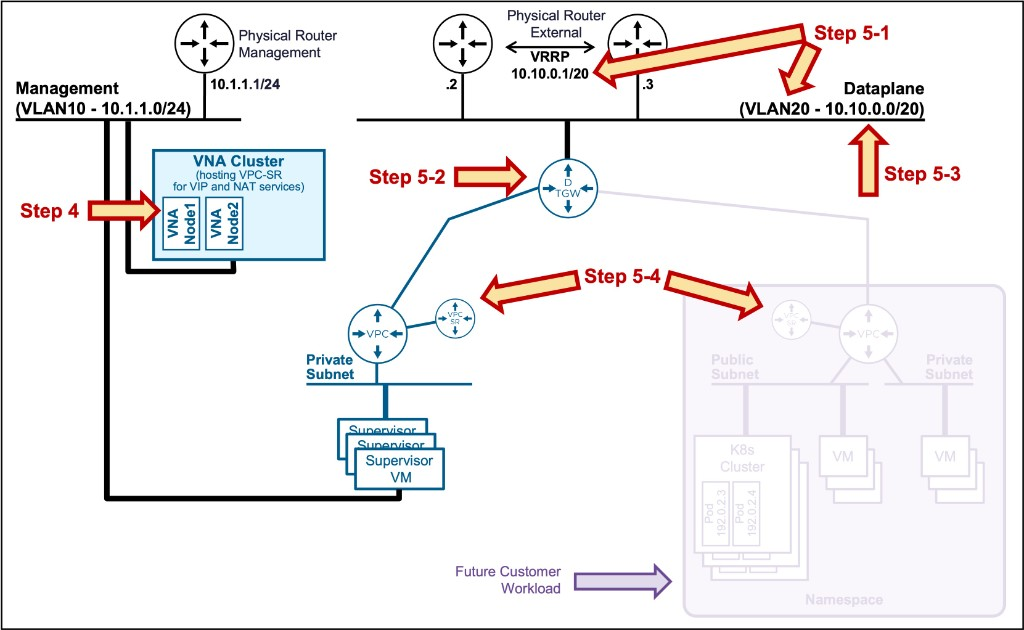
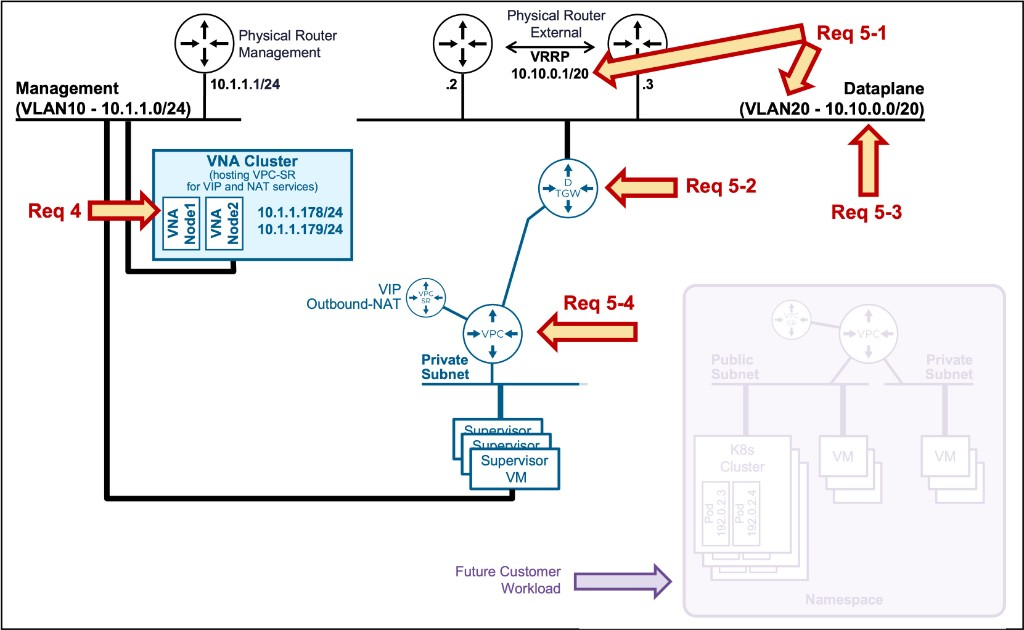
Step badges S→R, Check Ext. Conn., per-column diagrams, In Use chip
UI (index_clarity.html):
- Step badge prefix changed from S to R throughout (R1, R2, R3, R5-1…)
- Cascade fix step labels updated to R5-2 / R5-3 / R5-4
- "Check VLAN" button renamed to "Check Ext. Conn."
- Architecture diagram thumbnails added to Centralized and VDS columns
  (nsx-vpc-centralized.jpg, vds.jpg); lightbox now dynamic via diagImg var
- Status chip shows blue "In Use" for the column matching the currently
  installed Supervisor; other chips use "Missing Reqs" instead of "Issues"
- activeModeKey: new state var set by checkInstalled when Supervisor is
  found; preserved across re-checks, cleared only by reset()
- activeColKey(): computed method resolving active column from activeModeKey
  or installResult network_mode
- checkInstalled: prevent concurrent calls; keep installResult visible
  until new data arrives (no flicker); loading flag not cleared while
  requirements check is still running
- status text: "Requirements missing" → "Missing requirements"

Backend (app.py):
- Error message step refs updated: S5-1 → R5-1, S5-3 → R5-3
- S5-4 expanded detail: show IP block display_name instead of path segment

Assets:
- Add app/static/nsx-vpc-centralized.jpg
- Add app/static/vds.jpg
- Update app/static/nsx-vpc-distributed.jpg (v4)

diff --git a/app/templates/index_clarity.html b/app/templates/index_clarity.html
@@ -138,6 +138,7 @@
     .status-chip.warnings     { background: #fdf5e0; color: #e07400; }
     .status-chip.issues       { background: #fae8e8; color: #c21d00; }
     .status-chip.to_validate  { background: #edf0f2; color: #6e777b; }
+    .status-chip.in_use       { background: #0072a3; color: #fff; }
     .status-chip.configuring  { background: #dce9f4; color: #0072a3; }
     .status-chip.running      { background: #dff0d0; color: #48960c; }
     .status-chip.error        { background: #fae8e8; color: #c21d00; }
@@ -624,10 +625,10 @@
 
                       <!-- Distributed -->
                       <div x-show="col.key === 'distributed'">
-                        <img src="/static/nsx-vpc-distributed.jpg?v=3"
+                        <img src="/static/nsx-vpc-distributed.jpg?v=4"
                              alt="NSX-VPC Distributed Architecture"
                              title="Click to enlarge"
-                             @click="showDiagram = true; diagDrag.x = null; diagDrag.y = null;"
+                             @click="diagImg='/static/nsx-vpc-distributed.jpg?v=4'; showDiagram = true; diagDrag.x = null; diagDrag.y = null;"
                              style="width:100%; max-height:80px; object-fit:cover; object-position:top; border-radius:4px; border:1px solid #dfe3e6; cursor:zoom-in; margin-bottom:0.45rem; display:block;">
                         <div class="pc-label">Pros</div>
                         <div class="pc-item">· Simple design - No Edge Node / Tier-0 / BGP</div>
@@ -641,6 +642,11 @@
 
                       <!-- Centralized -->
                       <div x-show="col.key === 'centralized'">
+                        <img src="/static/nsx-vpc-centralized.jpg?v=1"
+                             alt="NSX-VPC Centralized Architecture"
+                             title="Click to enlarge"
+                             @click="diagImg='/static/nsx-vpc-centralized.jpg?v=1'; showDiagram = true; diagDrag.x = null; diagDrag.y = null;"
+                             style="width:100%; max-height:80px; object-fit:cover; object-position:top; border-radius:4px; border:1px solid #dfe3e6; cursor:zoom-in; margin-bottom:0.45rem; display:block;">
                         <div class="pc-label">Pros</div>
                         <div class="pc-item">· Full VCF-Automation support</div>
                         <div class="pc-item">· Fewer physical fabric IP consumption - K8s nodes use logical private IPs</div>
@@ -651,6 +657,11 @@
 
                       <!-- VDS / FLB -->
                       <div x-show="col.key === 'vds_flb'">
+                        <img src="/static/vds.jpg?v=1"
+                             alt="VDS Architecture"
+                             title="Click to enlarge"
+                             @click="diagImg='/static/vds.jpg?v=1'; showDiagram = true; diagDrag.x = null; diagDrag.y = null;"
+                             style="width:100%; max-height:80px; object-fit:cover; object-position:top; border-radius:4px; border:1px solid #dfe3e6; cursor:zoom-in; margin-bottom:0.45rem; display:block;">
                         <div class="pc-label">Pros</div>
                         <div class="pc-item">· Simple design — no NSX required</div>
                         <div class="pc-label pc-label-gap pc-label-cons">Cons</div>
@@ -698,12 +709,13 @@
                     </div>
                     <span class="status-chip"
                           :class="{
-                            'ready':        overallFor(col.key) === 'ready',
-                            'warnings':     overallFor(col.key) === 'warnings',
-                            'issues':       overallFor(col.key) === 'issues',
-                            'to_validate':  overallFor(col.key) === 'to_validate'
+                            'in_use':       activeColKey() === col.key,
+                            'ready':        activeColKey() !== col.key && overallFor(col.key) === 'ready',
+                            'warnings':     activeColKey() !== col.key && overallFor(col.key) === 'warnings',
+                            'issues':       activeColKey() !== col.key && overallFor(col.key) === 'issues',
+                            'to_validate':  activeColKey() !== col.key && overallFor(col.key) === 'to_validate'
                           }"
-                          x-text="{ ready:'Ready', warnings:'Warnings', issues:'Issues', to_validate:'To Validate' }[overallFor(col.key)] || ''">
+                          x-text="activeColKey() === col.key ? 'In Use' : ({ ready:'Ready', warnings:'Warnings', issues:'Missing Reqs', to_validate:'To Validate' }[overallFor(col.key)] || '')">
                     </span>
                   </div>
 
@@ -711,10 +723,10 @@
                   <div class="pros-cons-section">
                     <!-- Distributed -->
                     <div x-show="col.key === 'distributed'">
-                      <img src="/static/nsx-vpc-distributed.jpg?v=3"
+                      <img src="/static/nsx-vpc-distributed.jpg?v=4"
                            alt="NSX-VPC Distributed Architecture"
                            title="Click to enlarge"
-                           @click="showDiagram = true; diagDrag.x = null; diagDrag.y = null;"
+                           @click="diagImg='/static/nsx-vpc-distributed.jpg?v=4'; showDiagram = true; diagDrag.x = null; diagDrag.y = null;"
                            style="width:100%; max-height:80px; object-fit:cover; object-position:top; border-radius:4px; border:1px solid #dfe3e6; cursor:zoom-in; margin-bottom:0.45rem; display:block;">
                       <div class="pc-label">Pros</div>
                       <div class="pc-item">· Simple design - No Edge Node / Tier-0 / BGP</div>
@@ -727,6 +739,11 @@
                     </div>
                     <!-- Centralized -->
                     <div x-show="col.key === 'centralized'">
+                      <img src="/static/nsx-vpc-centralized.jpg?v=1"
+                           alt="NSX-VPC Centralized Architecture"
+                           title="Click to enlarge"
+                           @click="diagImg='/static/nsx-vpc-centralized.jpg?v=1'; showDiagram = true; diagDrag.x = null; diagDrag.y = null;"
+                           style="width:100%; max-height:80px; object-fit:cover; object-position:top; border-radius:4px; border:1px solid #dfe3e6; cursor:zoom-in; margin-bottom:0.45rem; display:block;">
                       <div class="pc-label">Pros</div>
                       <div class="pc-item">· Full VCF-Automation support</div>
                       <div class="pc-item">· Fewer physical fabric IP consumption - K8s nodes use logical private IPs</div>
@@ -736,6 +753,11 @@
                     </div>
                     <!-- VDS / FLB -->
                     <div x-show="col.key === 'vds_flb'">
+                      <img src="/static/vds.jpg?v=1"
+                           alt="VDS Architecture"
+                           title="Click to enlarge"
+                           @click="diagImg='/static/vds.jpg?v=1'; showDiagram = true; diagDrag.x = null; diagDrag.y = null;"
+                           style="width:100%; max-height:80px; object-fit:cover; object-position:top; border-radius:4px; border:1px solid #dfe3e6; cursor:zoom-in; margin-bottom:0.45rem; display:block;">
                       <div class="pc-label">Pros</div>
                       <div class="pc-item">· Simple design — no NSX required</div>
                       <div class="pc-label pc-label-gap pc-label-cons">Cons</div>
@@ -768,7 +790,7 @@
                           <div style="flex:1; min-width:0;">
                             <!-- Title row: badge + name (full width, never compressed) -->
                             <div style="display:flex; align-items:center; gap:0.35rem; flex-wrap:wrap;">
-                              <span class="step-badge" x-text="check.step === 'Auth' ? 'Auth' : 'S' + check.step"></span>
+                              <span class="step-badge" x-text="check.step === 'Auth' ? 'Auth' : 'R' + check.step"></span>
                               <p style="font-weight:700; font-size:0.85rem; color:#2b2b2b; line-height:1.3; margin:0;"
                                  x-text="check.name"></p>
                             </div>
@@ -809,7 +831,7 @@
                                   <i :class="vlanResult === 'pass' ? 'fas fa-check-circle'
                                             : vlanResult === 'fail' ? 'fas fa-times-circle'
                                             : 'fas fa-ethernet'"
-                                     style="margin-right:0.25rem;"></i>Check VLAN
+                                     style="margin-right:0.25rem;"></i>Check Ext. Conn.
                                 </button>
                               </div>
                             </template>
@@ -1070,7 +1092,7 @@
                       <p style="font-size:0.75rem; font-weight:600; margin:0;"
                          :class="{ 'clr-ok': overallFor(col.key)==='ready', 'clr-warn': overallFor(col.key)==='warnings', 'clr-error': overallFor(col.key)==='issues' }"
                          :style="overallFor(col.key)==='to_validate' ? 'color:#6e777b;' : ''"
-                         x-text="{ ready:'All requirements met', warnings:'Review warnings', issues:'Requirements missing', to_validate:'To Validate' }[overallFor(col.key)] || ''">
+                         x-text="{ ready:'All requirements met', warnings:'Review warnings', issues:'Missing requirements', to_validate:'To Validate' }[overallFor(col.key)] || ''">
                       </p>
                       <!-- VDS/FLB: always disabled -->
                       <template x-if="showReqBtn && col.key === 'vds_flb'">
@@ -1125,8 +1147,8 @@
                         <span x-text="loadingReq ? 'Checking…' : 'Re-check Requirements'"></span>
                       </button>
                       <span class="status-chip"
-                            :class="{ ready: overallFor(col.key)==='ready', warnings: overallFor(col.key)==='warnings', issues: overallFor(col.key)==='issues', to_validate: overallFor(col.key)==='to_validate' }"
-                            x-text="{ ready:'Ready', warnings:'Warnings', issues:'Issues', to_validate:'To Validate' }[overallFor(col.key)] || ''">
+                            :class="{ in_use: activeColKey()===col.key, ready: activeColKey()!==col.key && overallFor(col.key)==='ready', warnings: activeColKey()!==col.key && overallFor(col.key)==='warnings', issues: activeColKey()!==col.key && overallFor(col.key)==='issues', to_validate: activeColKey()!==col.key && overallFor(col.key)==='to_validate' }"
+                            x-text="activeColKey()===col.key ? 'In Use' : ({ ready:'Ready', warnings:'Warnings', issues:'Missing Reqs', to_validate:'To Validate' }[overallFor(col.key)] || '')">
                       </span>
                     </div>
                   </div>
@@ -1148,7 +1170,7 @@
                           <div style="flex:1; min-width:0;">
                             <!-- Title row -->
                             <div style="display:flex; align-items:center; gap:0.35rem; flex-wrap:wrap;">
-                              <span class="step-badge" x-text="check.step === 'Auth' ? 'Auth' : 'S' + check.step"></span>
+                              <span class="step-badge" x-text="check.step === 'Auth' ? 'Auth' : 'R' + check.step"></span>
                               <p style="font-weight:700; font-size:0.85rem; color:#2b2b2b; line-height:1.3; margin:0;" x-text="check.name"></p>
                             </div>
                             <!-- Check MTU button -->
@@ -1171,7 +1193,7 @@
                                           background: vlanResult==='pass' ? '#48960c' : vlanResult==='fail' ? '#c92100' : '#89a0a8',
                                           borderColor: vlanResult==='pass' ? '#48960c' : vlanResult==='fail' ? '#c92100' : '#89a0a8' }">
                                   <i :class="vlanResult==='pass' ? 'fas fa-check-circle' : vlanResult==='fail' ? 'fas fa-times-circle' : 'fas fa-sitemap'"
-                                     style="margin-right:0.25rem;"></i>Check VLAN
+                                     style="margin-right:0.25rem;"></i>Check Ext. Conn.
                                 </button>
                               </div>
                             </template>
@@ -3003,7 +3025,7 @@
           </button>
           <h3 class="modal-title">
             <i class="fas fa-ethernet" style="margin-right:0.4rem;"></i>
-            Check VLAN — Distributed External Connection
+            Check Distributed External Connection
           </h3>
         </div>
 
@@ -3302,6 +3324,7 @@
       showNsx:        false,
       showPwd:        false,
       showNsxPwd:     false,
+      activeModeKey:  null,  // column key for the currently deployed/deploying Supervisor
       loading:        false,
       loadingInstalled: false,
       loadingReq:     false,
@@ -3344,6 +3367,7 @@
       vlanResult: null,   // null | 'pass' | 'fail'
 
       showDiagram: false, // lightbox for architecture diagram
+      diagImg: '/static/nsx-vpc-distributed.jpg?v=4',
       diagDrag: { active: false, offsetX: 0, offsetY: 0, x: null, y: null },
 
       // ── Install Wizard ─────────────────────────────────────────────────
@@ -3402,8 +3426,23 @@
         return 'ready';
       },
 
+      activeColKey() {
+        // Prefer the explicitly stored key (set in checkInstalled, survives re-checks).
+        if (this.activeModeKey) return this.activeModeKey;
+        // Fallback: read directly from installResult
+        if (!this.installResult?.installed) return null;
+        for (const c of (this.installResult.clusters || [])) {
+          const m = (c.network_mode || '');
+          if (m.includes('Distributed'))                       return 'distributed';
+          if (m.includes('Centralized'))                       return 'centralized';
+          if (m === 'VDS / FLB' || m === 'VSPHERE_NETWORK')   return 'vds_flb';
+        }
+        return null;
+      },
+
       reset() {
         this.installResult = null;
+        this.activeModeKey = null;
         this.showReqBtn    = false;
         this.modes         = { distributed: [], centralized: [], vds_flb: [] };
         this.selectedMode  = null;
@@ -3443,9 +3482,10 @@
 
       async checkInstalled() {
         if (!this.form.vc_url || !this.form.password) return;
+        if (this.loadingInstalled) return;  // prevent concurrent calls
         this.loadingInstalled = true;
         this.loading          = true;
-        this.installResult    = null;
+        // Do NOT clear installResult here — keep showing current state until new data arrives.
         this.showReqBtn       = false;
         this.reqResults       = [];
         try {
@@ -3456,6 +3496,15 @@
           });
           const d = await r.json();
           this.installResult = d;
+          // Only update activeModeKey when the supervisor is confirmed installed.
+          // Never clear it on a transient false result — only reset() clears it.
+          if (d.installed) {
+            const _nm = (d.clusters || []).map(c => c.network_mode).find(Boolean) || '';
+            this.activeModeKey = _nm.includes('Distributed') ? 'distributed'
+                               : _nm.includes('Centralized') ? 'centralized'
+                               : (_nm === 'VDS / FLB' || _nm === 'VSPHERE_NETWORK') ? 'vds_flb'
+                               : null;
+          }
           if (d.success && !d.installed) this.showReqBtn = true;
           if (d.success && d.installed) this.equalizeColRows();
           // Auto-run requirements check whenever we have a successful connection,
@@ -3465,7 +3514,7 @@
           this.installResult = {error: String(e)};
         } finally {
           this.loadingInstalled = false;
-          this.loading          = false;
+          if (!this.loadingReq) this.loading = false;  // don't clear loading while requirements check is still running
         }
       },
 
@@ -3860,9 +3909,9 @@
             running: false,
             done:    false,
             steps: [
-              {label: 'S5-2 — Distributed Transit Gateway attachment', status: 'pending', error: null},
-              {label: 'S5-3 — External IP Block (dist-ext-ip-block-1)',  status: 'pending', error: null},
-              {label: 'S5-4 — VPC Connectivity Profile',                 status: 'pending', error: null},
+              {label: 'R5-2 — Distributed Transit Gateway attachment', status: 'pending', error: null},
+              {label: 'R5-3 — External IP Block (dist-ext-ip-block-1)',  status: 'pending', error: null},
+              {label: 'R5-4 — VPC Connectivity Profile',                 status: 'pending', error: null},
             ]
           };
           // Pre-fetch VNA clusters so the user can pick one in the form
@@ -4590,8 +4639,8 @@
                        font-size:1rem; font-weight:700; line-height:1; padding:0 2px;
                        opacity:0.85;" aria-label="Close">×</button>
       </div>
-      <img src="/static/nsx-vpc-distributed.jpg?v=3"
-           alt="NSX-VPC Distributed Architecture"
+      <img :src="diagImg"
+           alt="Architecture Diagram"
            style="max-width:56vw; max-height:84vh; border-radius:0 0 6px 6px;
                   box-shadow:0 12px 48px rgba(0,0,0,0.55); display:block;
                   border:2px solid rgba(255,255,255,0.15); border-top:none;">

diff --git a/app/app.py b/app/app.py
@@ -913,7 +913,7 @@ def check_requirements():
                     if mode == "distributed":
                         if not dvlan_nets:
                             ext_detail = (
-                                "No Distributed External Connection found (Step S5-1).\n"
+                                "No Distributed External Connection found (Step R5-1).\n"
                                 "An External IP Block for Distributed mode requires a Distributed External Connection first —\n"
                                 "its CIDR must match that connection's gateway subnet."
                             )
@@ -926,7 +926,7 @@ def check_requirements():
                                                 " but their CIDR does not match any Distributed External Connection subnet.")
                             ext_detail = (
                                 "An External IP Block is required for future Supervisor VIP and NAT allocation.\n"
-                                "In the Distributed option, the CIDR must match the subnet from Step S5-1 "
+                                "In the Distributed option, the CIDR must match the subnet from Step R5-1 "
                                 "(Distributed External Connection)." + overlap_note + "\n"
                                 "This tool will guide you through the creation of an External IP Block."
                             )
@@ -1001,6 +1001,22 @@ def check_requirements():
                 valid_vcps = [v for v in all_vcps if is_valid(v)]
 
                 if valid_vcps:
+                    # Build path/id → display_name map for IP blocks so we show names, not IDs.
+                    _bname_map: dict = {}
+                    for _b in (d.get("ext_blocks", []) + d.get("int_blocks", [])):
+                        _b_path = _b.get("path", "")
+                        _b_dn   = _b.get("display_name") or _b.get("id", "")
+                        if _b_path:
+                            _bname_map[_b_path] = _b_dn
+                        if _b.get("id"):
+                            _bname_map[_b["id"]] = _b_dn
+
+                    def _b_display(path: str) -> str:
+                        if path in _bname_map:
+                            return _bname_map[path]
+                        seg = path.rstrip("/").split("/")[-1]
+                        return _bname_map.get(seg, seg)
+
                     lines = []
                     for v in valid_vcps:
                         sg  = (v.get("service_gateway") or {})
@@ -1008,7 +1024,7 @@ def check_requirements():
                         proj  = v.get("_proj_name", v.get("_proj_id", "?"))
                         name  = v.get("display_name", v.get("id", "?"))
                         tgw   = v.get("transit_gateway_path", "?").rstrip("/").split("/")[-1]
-                        ext_b = ", ".join(b.rstrip("/").split("/")[-1]
+                        ext_b = ", ".join(_b_display(b)
                                           for b in (v.get("external_ip_blocks") or []))
                         clu   = ", ".join(p.rstrip("/").split("/")[-1]
                                           for p in (sg.get("edge_cluster_paths") or []))
@@ -3562,7 +3578,7 @@ def check_vlan():
         dvlans = (nsx_get(nsx_url, nsx_user, nsx_pass,
             "/policy/api/v1/infra/distributed-vlan-connections") or {}).get("results", [])
         if not dvlans:
-            result["error"] = "No Distributed External Connection found — complete S5-1 first."
+            result["error"] = "No Distributed External Connection found — complete R5-1 first."
             return jsonify(result)
         dvlan = next((d for d in dvlans if d.get("id") == dvlan_id_req), dvlans[0])
         vlan_id    = dvlan.get("vlan_id", 0)
@@ -3599,7 +3615,7 @@ def check_vlan():
             except Exception:
                 pass
         if not block_cidr:
-            result["error"] = "No External IP Block matching the DVLAN subnet — complete S5-3 first."
+            result["error"] = "No External IP Block matching the DVLAN subnet — complete R5-3 first."
             return jsonify(result)
 
         # ── 3. Prepared ESX hosts + NSX VDS name ───────────────────────────
